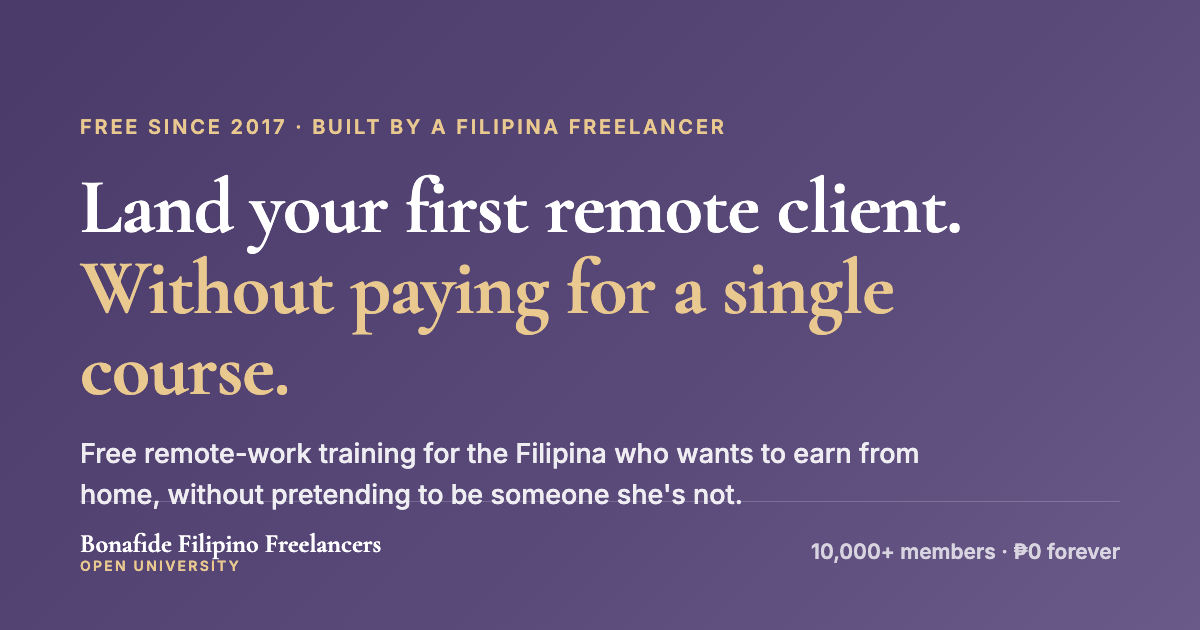
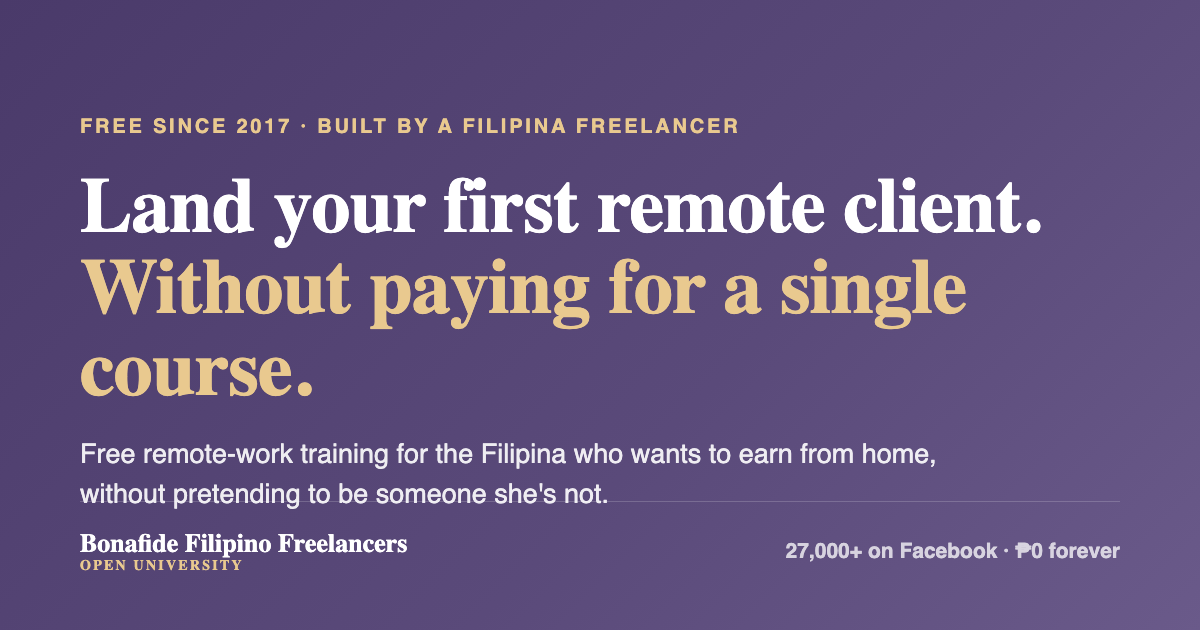
BFF: lead with 27K Facebook reach, group as join CTA
Page followers (27K) become the social-proof number in hero block, stats
strip, and meta/OG. Join CTA still points to the group. Footer now links
both Facebook Page (27K) and Group. Regenerated OG share image.

diff --git a/public/bonafide-filipino-freelancers/index.html b/public/bonafide-filipino-freelancers/index.html
@@ -4,21 +4,21 @@
 <meta charset="UTF-8">
 <meta name="viewport" content="width=device-width, initial-scale=1.0, viewport-fit=cover">
 <title>Free Remote-Work Training for Filipino Freelancers | BFF Open University</title>
-<meta name="description" content="Land your first remote client without paying for a course, without pretending to be someone you're not, and without leaving your kids. Free since 2017. Join 10,000+ Filipino freelancers.">
+<meta name="description" content="Land your first remote client without paying for a course, without pretending to be someone you're not, and without leaving your kids. Free since 2017. Join 27,000+ Filipino freelancers on Facebook.">
 <link rel="icon" type="image/png" href="../brand/favicon.png">
 
 <!-- Open Graph / social share -->
 <meta property="og:type" content="website">
 <meta property="og:site_name" content="BFF Open University">
 <meta property="og:title" content="Land your first remote client. Without paying for a single course.">
-<meta property="og:description" content="Free remote-work training for the Filipina freelancer. No upsells, no credit card. Built by Lala, free since 2017. Join 10,000+ members.">
+<meta property="og:description" content="Free remote-work training for the Filipina freelancer. No upsells, no credit card. Built by Lala, free since 2017. 27,000+ on Facebook.">
 <meta property="og:url" content="https://writingsbylala.com/bonafide-filipino-freelancers/index.html">
 <meta property="og:image" content="https://writingsbylala.com/bonafide-filipino-freelancers/og-image.png">
 <meta property="og:image:width" content="1200">
 <meta property="og:image:height" content="630">
 <meta name="twitter:card" content="summary_large_image">
 <meta name="twitter:title" content="Land your first remote client. Without paying for a single course.">
-<meta name="twitter:description" content="Free remote-work training for the Filipina freelancer. Built by Lala, free since 2017. Join 10,000+ members.">
+<meta name="twitter:description" content="Free remote-work training for the Filipina freelancer. Built by Lala, free since 2017. 27,000+ on Facebook.">
 <meta name="twitter:image" content="https://writingsbylala.com/bonafide-filipino-freelancers/og-image.png">
 <link rel="preconnect" href="https://fonts.googleapis.com">
 <link rel="preconnect" href="https://fonts.gstatic.com" crossorigin>
@@ -284,13 +284,13 @@
     <p class="hero-secondary">Already know your path? <a href="#toolbox">Jump straight to the tools ↓</a></p>
 
     <a href="https://facebook.com/groups/workathomegeek" class="fb-join" target="_blank" rel="noopener">
-      <span class="fb-join-num">10,000+</span>
-      <span class="fb-join-text">Filipinos are already in the BFF Facebook group. Join them, ask questions, share wins.<span class="fb-join-cta">Open the group →</span></span>
+      <span class="fb-join-num">27,000+</span>
+      <span class="fb-join-text">Filipino freelancers follow BFF on Facebook. Join the group to ask questions and share wins.<span class="fb-join-cta">Open the group →</span></span>
     </a>
 
     <div class="stats-strip" id="statsStrip">
       <div class="stat"><span class="num">2017</span><span class="lbl">Founded</span></div>
-      <div class="stat"><span class="num">10,000+</span><span class="lbl">Members</span></div>
+      <div class="stat"><span class="num">27K+</span><span class="lbl">On Facebook</span></div>
       <div class="stat"><span class="num" id="stat-lessons">59</span><span class="lbl">Free lessons</span></div>
       <div class="stat"><span class="num">₱0</span><span class="lbl">Forever</span></div>
     </div>
@@ -450,7 +450,7 @@
       <a href="jobs/index.html" class="final-door">Job Board</a>
       <a href="bff-blueprint-printable-guide.pdf" class="final-door">Printable Guide (PDF)</a>
     </div>
-    <p class="also-here">New here? Start with the <a href="archetype/index.html">Archetype Finder</a>, or join <a href="https://facebook.com/groups/workathomegeek" target="_blank" rel="noopener">10,000+ members in the Facebook group</a>.</p>
+    <p class="also-here">New here? Start with the <a href="archetype/index.html">Archetype Finder</a>, or join the <a href="https://facebook.com/groups/workathomegeek" target="_blank" rel="noopener">BFF Facebook group</a>.</p>
   </div>
 </section>
 
@@ -458,9 +458,9 @@
   <h3>One path. Many tools. Free forever.</h3>
   <p>BFF Open University is run by Lala. No company behind it. No course funnel. Just lessons that helped real Filipinos land real remote jobs, written down and made free.</p>
   <div>
-    <a href="https://facebook.com/groups/workathomegeek" class="foot-link" target="_blank" rel="noopener">Facebook Group (10,000+)</a>
+    <a href="https://facebook.com/workathomegeek" class="foot-link" target="_blank" rel="noopener">Facebook Page (27K)</a>
+    <a href="https://facebook.com/groups/workathomegeek" class="foot-link" target="_blank" rel="noopener">Facebook Group</a>
     <a href="../topics/bff-stories/" class="foot-link">BFF Stories</a>
-    <a href="jobs/index.html" class="foot-link">Job Board</a>
     <a href="../" class="foot-link">Writings by Lala</a>
   </div>
   <div class="credit">BFF Open University · Free since 2017</div>
